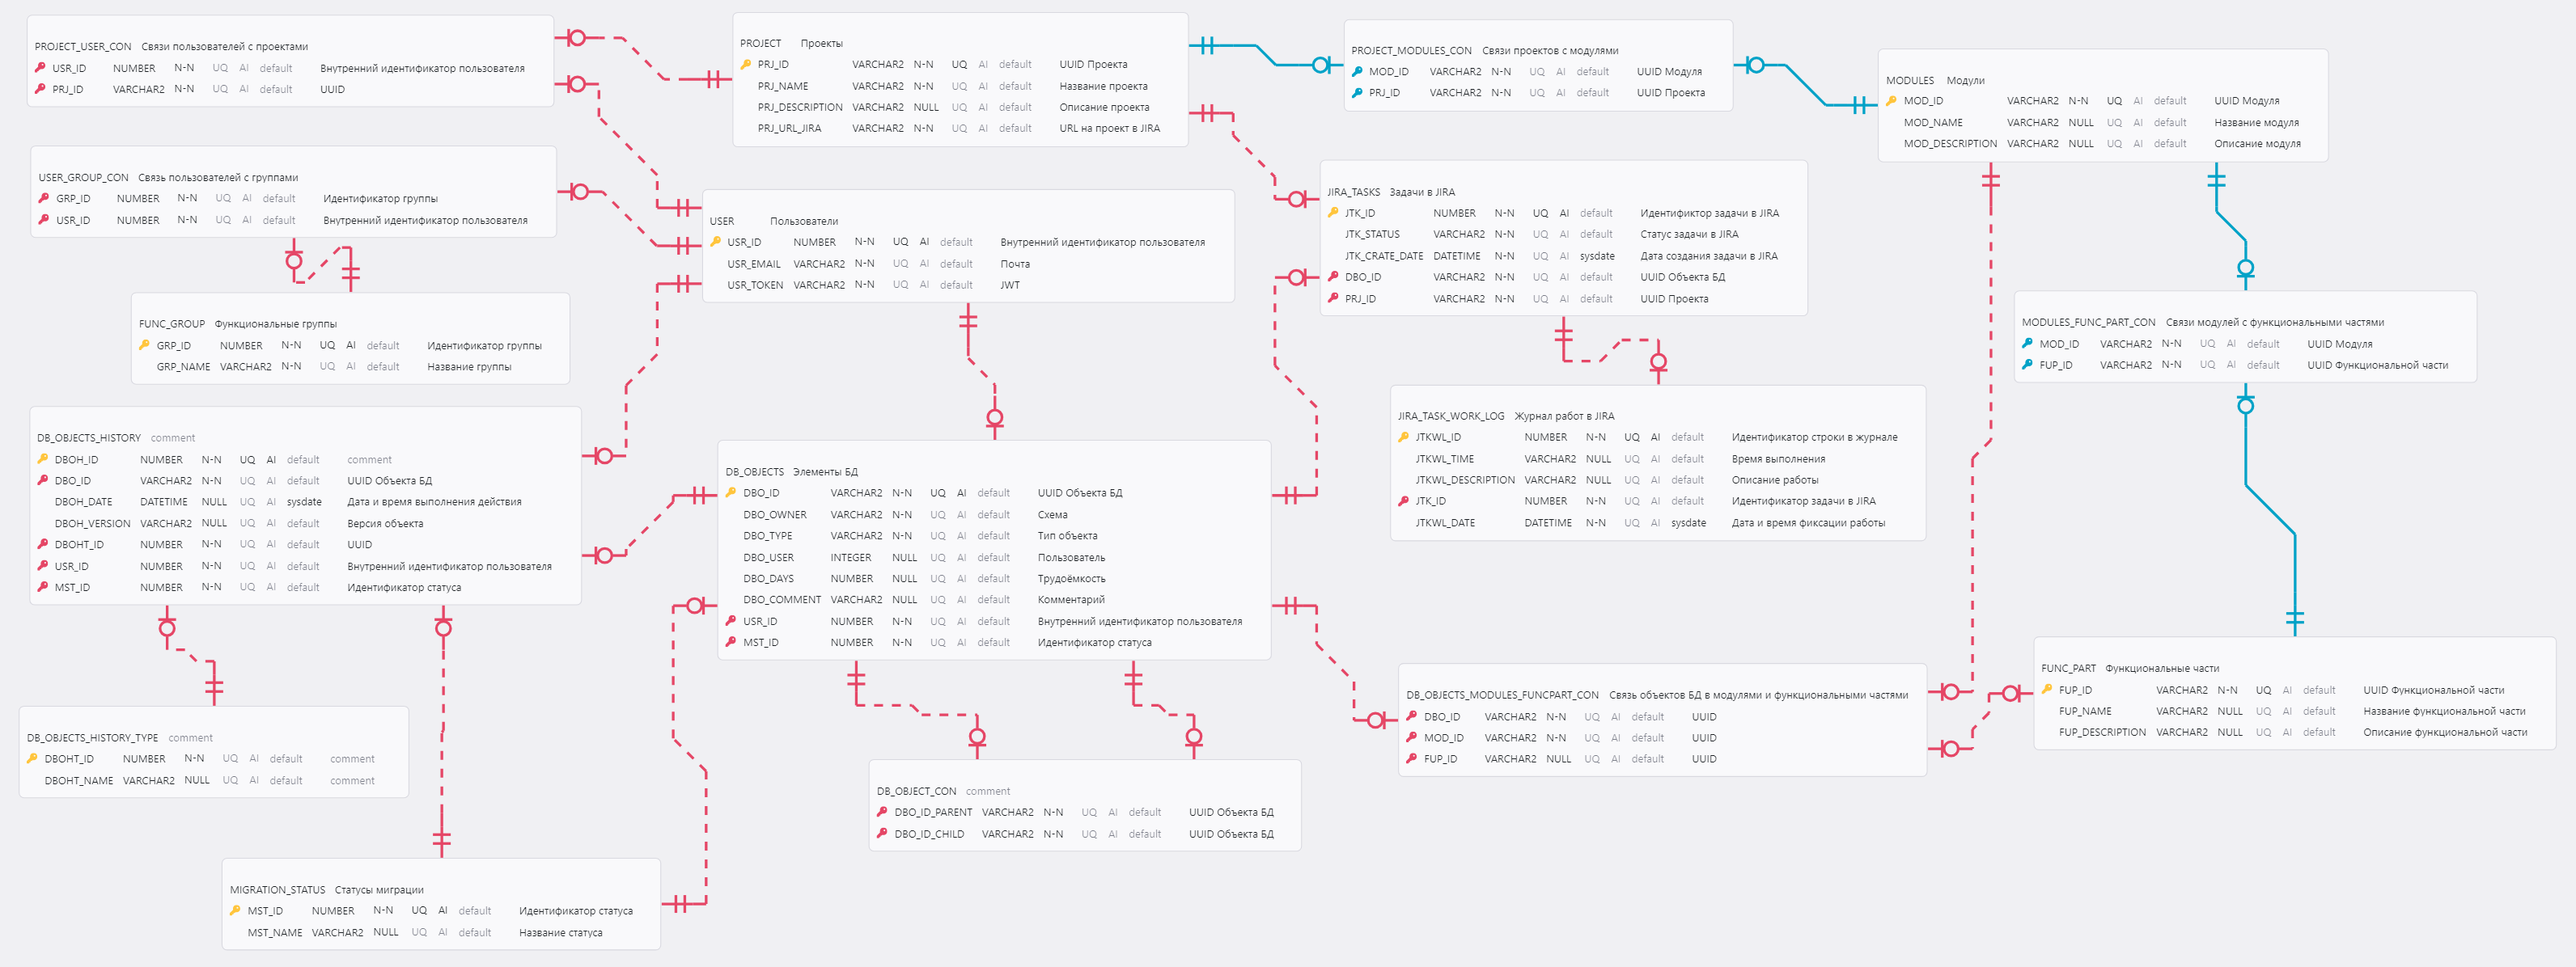
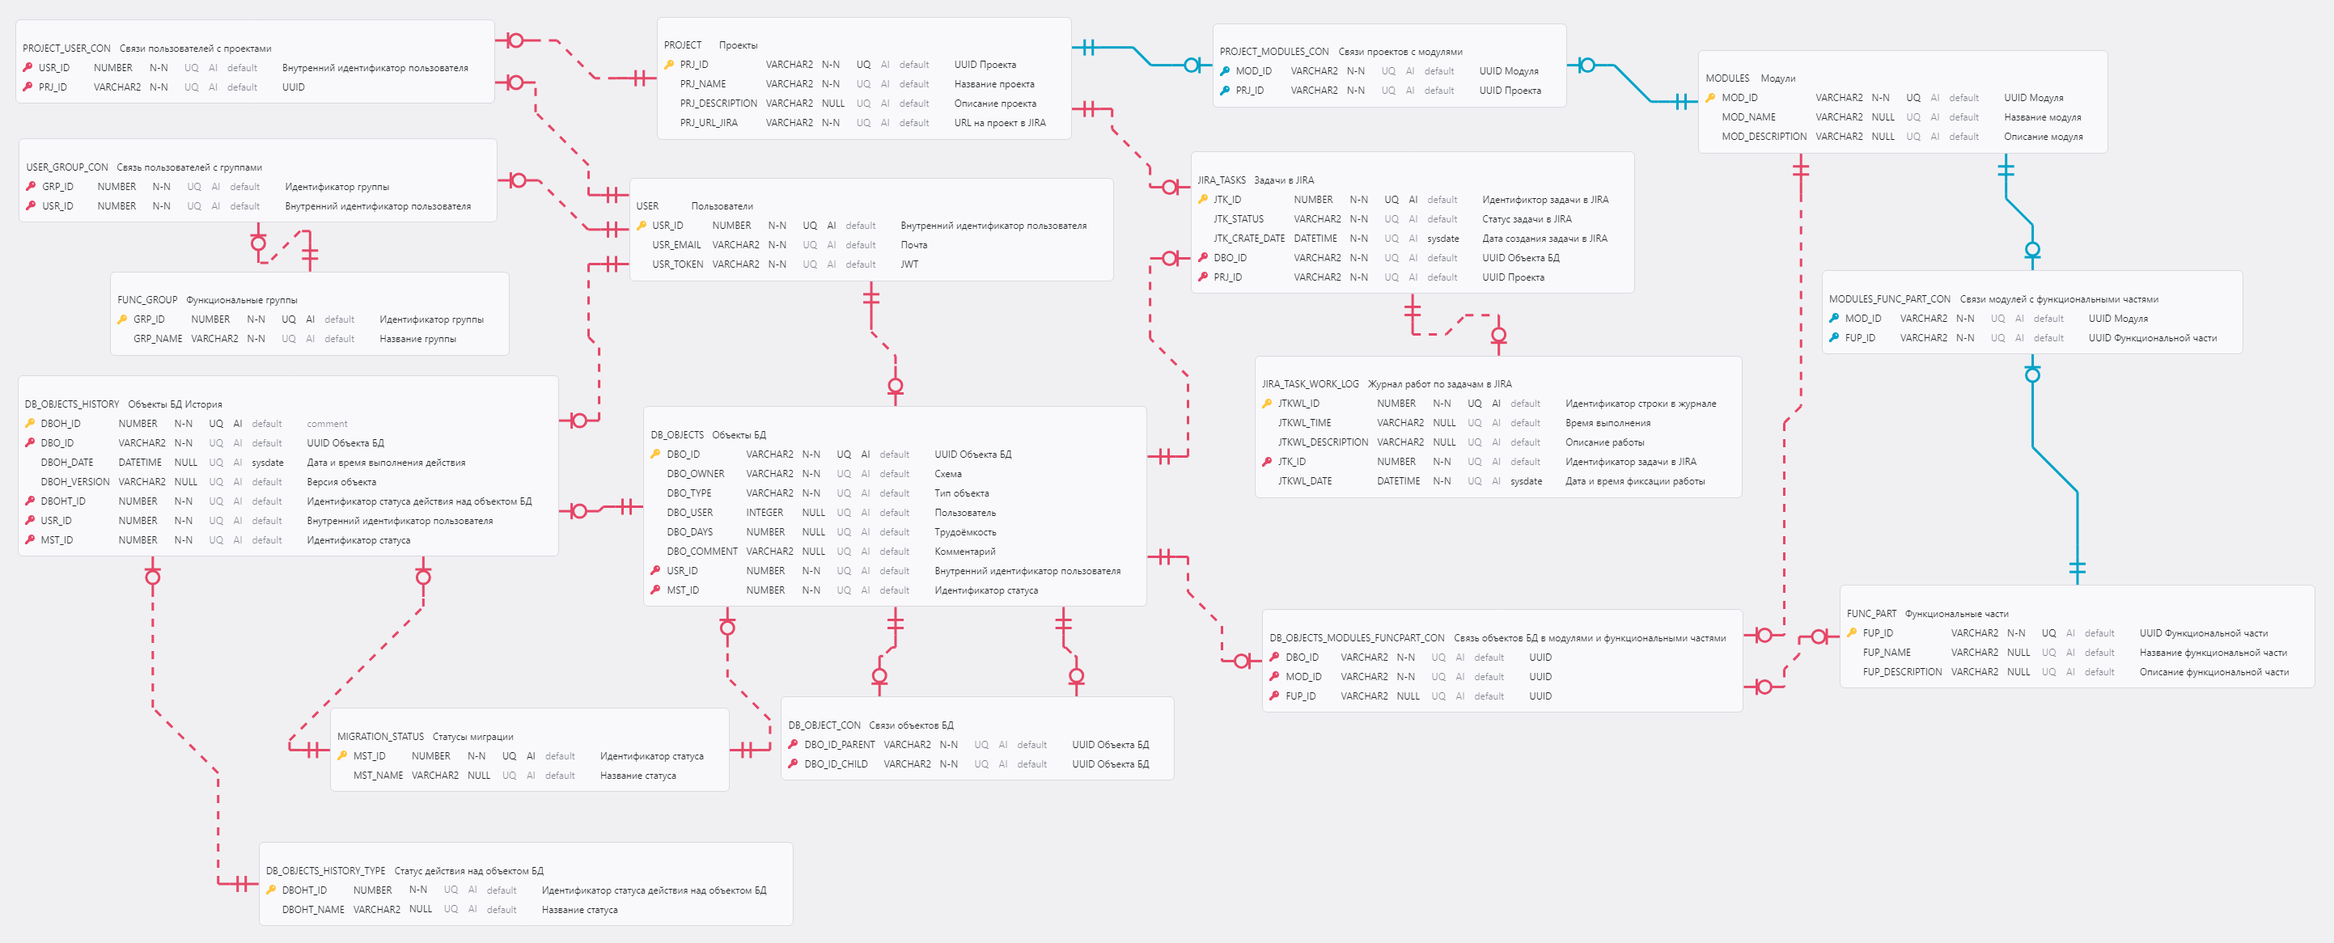
change diagramm

diff --git a/docs/model.md b/docs/model.md
@@ -9,8 +9,10 @@
 - Проект
 - Модуль
 - Функциональная часть
-- Элемент базы данных
-- История элемента базы данных
+- Объекты БД
+- Объекты БД История
+- Задачи в Jira
+- Журнал работ по задачам в Jira
 - Пользователь
 
 ![](diagrams/out/DDD.svg)
